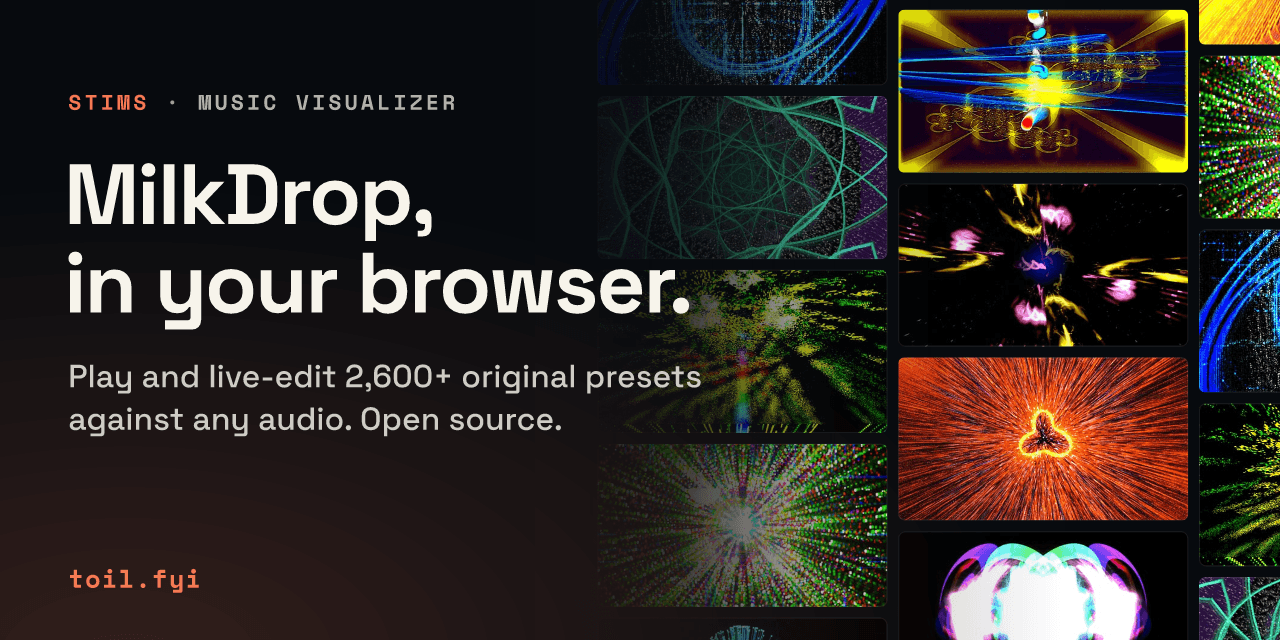
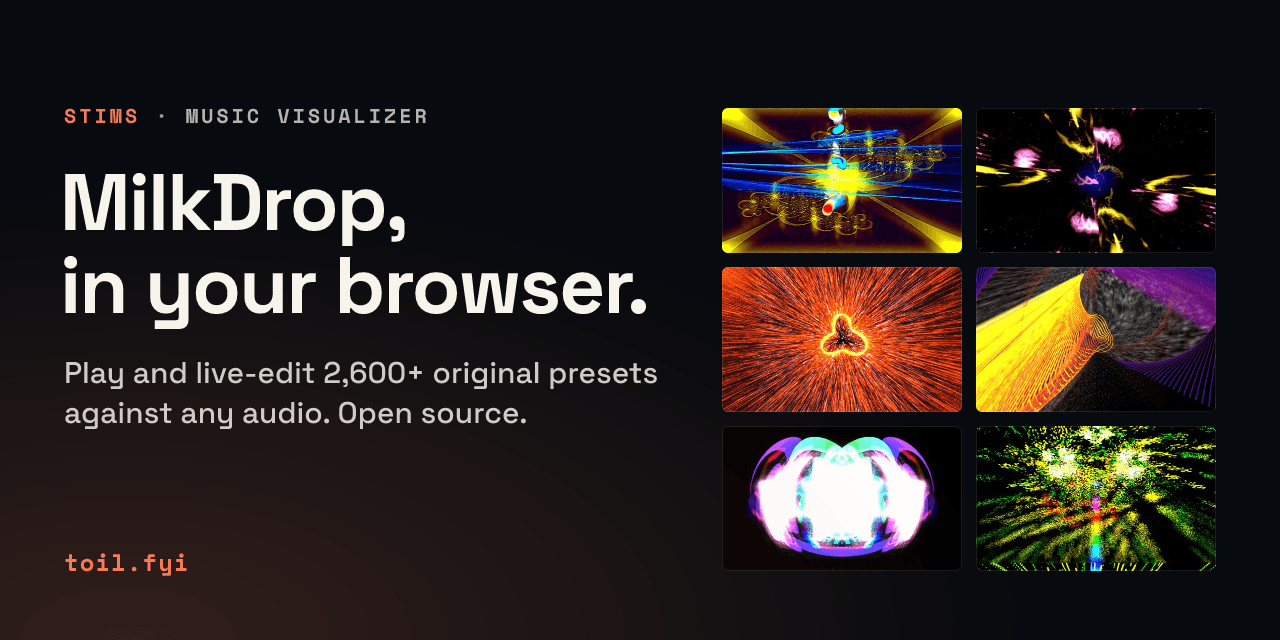
fix(seo): keep the github social preview inside its edges (#1715)
* fix(seo): keep the github social preview inside its edges

The GitHub social preview reframed the 1200x630 og:image card, so its
tile wall ran off the top, right and bottom. Unfurlers that crop a 2:1
image showed the cut tiles as a broken crop.

buildOgSvg now takes an optional canvas (size, tiles, whether to fade
the ground over them). The site cards keep the default and render
byte-identical; the social preview is drawn natively at 1280x640 with a
2x3 grid of rounded tiles held 64px from the sides, aligned with the
eyebrow and footer, and no tile under the words.

Claude-Session: https://claude.ai/code/session_01DcfMrwoJebtJQPvPudgUjz

* chore(deps): wait seven days before dependabot proposes a version

The weekly maintenance steward merges green minor and patch updates on
its own, so a version should be public long enough for a compromised
release to be found and pulled first. Security updates are not delayed.

Claude-Session: https://claude.ai/code/session_01DcfMrwoJebtJQPvPudgUjz

---------

diff --git a/scripts/generate-seo.ts b/scripts/generate-seo.ts
@@ -231,7 +231,14 @@ const TILE_COLUMNS: OgColumn[] = [
   },
 ];
 
-type OgTile = { x: number; y: number; frame: string };
+type OgTile = {
+  x: number;
+  y: number;
+  frame: string;
+  /** Tile size; the wall's 16:9 TILE_W x TILE_H when left out. */
+  width?: number;
+  height?: number;
+};
 
 export function layoutOgTiles(columns: OgColumn[] = TILE_COLUMNS): OgTile[] {
   const tiles: OgTile[] = [];
@@ -261,14 +268,80 @@ function buildOgTileWall(tiles: OgTile[], frameHref: OgFrameHref) {
   return tiles
     .map(
       (
-        { x, y, frame },
+        { x, y, frame, width = TILE_W, height = TILE_H },
         index,
-      ) => `<clipPath id="tile-${index}"><rect x="${x}" y="${y}" width="${TILE_W}" height="${TILE_H}" rx="6" /></clipPath>
-    <image href="${escapeXml(frameHref(frame))}" x="${x}" y="${y}" width="${TILE_W}" height="${TILE_H}" preserveAspectRatio="xMidYMid slice" clip-path="url(#tile-${index})" />
-    <rect x="${x + 0.5}" y="${y + 0.5}" width="${TILE_W - 1}" height="${TILE_H - 1}" rx="6" fill="none" stroke="rgba(255,255,255,0.1)" />`,
+      ) => `<clipPath id="tile-${index}"><rect x="${x}" y="${y}" width="${width}" height="${height}" rx="6" /></clipPath>
+    <image href="${escapeXml(frameHref(frame))}" x="${x}" y="${y}" width="${width}" height="${height}" preserveAspectRatio="xMidYMid slice" clip-path="url(#tile-${index})" />
+    <rect x="${x + 0.5}" y="${y + 0.5}" width="${width - 1}" height="${height - 1}" rx="6" fill="none" stroke="rgba(255,255,255,0.1)" />`,
     )
     .join('\n    ');
 }
+
+/**
+ * The canvas a card is drawn on and the tiles on its right. The site's
+ * og:image cards are 1200x630 with the wall bleeding off the edge, faded
+ * under the words.
+ */
+export type OgCanvas = {
+  width: number;
+  height: number;
+  tiles: OgTile[];
+  /** Fade the ground over the tiles, for a wall that runs under the words. */
+  fadeTiles: boolean;
+};
+
+const OG_CARD_CANVAS: OgCanvas = {
+  width: ogWidth,
+  height: ogHeight,
+  tiles: layoutOgTiles(),
+  fadeTiles: true,
+};
+
+// GitHub's social preview is 2:1 at 1280x640, and Slack, LinkedIn and
+// iMessage unfurl it cropped, trimming about 30px off each side. A tile cut
+// by the canvas edge reads there as a broken crop, so this card keeps its
+// frames in a grid inside the edges, clear of the words: 64px from the sides,
+// as the text is, and between the eyebrow's cap height and the footer's
+// baseline top to bottom. All six frames differ, so no two neighbours match.
+export const GITHUB_SOCIAL_PREVIEW_WIDTH = 1280;
+export const GITHUB_SOCIAL_PREVIEW_HEIGHT = 640;
+const GITHUB_GRID = {
+  columns: 2,
+  right: GITHUB_SOCIAL_PREVIEW_WIDTH - OG_MARGIN,
+  top: 108,
+  bottom: 571,
+  tileWidth: 240,
+  gap: 14,
+  frames: [
+    FRAME.strangelyDynamic,
+    FRAME.eightySix,
+    FRAME.threeLayers,
+    FRAME.polyevolution,
+    FRAME.glowsticks,
+    FRAME.astral,
+  ],
+};
+
+function layoutGithubSocialPreviewTiles(): OgTile[] {
+  const { columns, right, top, bottom, tileWidth, gap, frames } = GITHUB_GRID;
+  const rows = Math.ceil(frames.length / columns);
+  const tileHeight = Math.round((bottom - top - gap * (rows - 1)) / rows);
+  const left = right - columns * tileWidth - (columns - 1) * gap;
+  return frames.map((frame, index) => ({
+    x: left + (index % columns) * (tileWidth + gap),
+    y: top + Math.floor(index / columns) * (tileHeight + gap),
+    frame,
+    width: tileWidth,
+    height: tileHeight,
+  }));
+}
+
+export const GITHUB_SOCIAL_PREVIEW_CANVAS: OgCanvas = {
+  width: GITHUB_SOCIAL_PREVIEW_WIDTH,
+  height: GITHUB_SOCIAL_PREVIEW_HEIGHT,
+  tiles: layoutGithubSocialPreviewTiles(),
+  fadeTiles: false,
+};
 
 export const buildOgSvg = ({
   headline,
@@ -278,6 +351,7 @@ export const buildOgSvg = ({
   eyebrow,
   ariaLabel,
   frameHref = relativeOgFrameHref,
+  canvas = OG_CARD_CANVAS,
 }: {
   /** One entry per line. Two lines at 84px is the design size. */
   headline: string[];
@@ -288,15 +362,19 @@ export const buildOgSvg = ({
   eyebrow: string;
   ariaLabel: string;
   frameHref?: OgFrameHref;
+  canvas?: OgCanvas;
 }) => {
+  const { width, height } = canvas;
+  // A taller canvas centres the same column of words.
+  const dy = (height - ogHeight) / 2;
   const headlineLeading = Math.round(headlineSize * 1.04);
-  const eyebrowY = 118;
+  const eyebrowY = 118 + dy;
   const firstHeadlineY = eyebrowY + 38 + headlineSize * 0.86;
   const lastHeadlineY =
     firstHeadlineY + (headline.length - 1) * headlineLeading;
   const firstSublineY = lastHeadlineY + 70;
 
-  return `<svg xmlns="http://www.w3.org/2000/svg" width="${ogWidth}" height="${ogHeight}" viewBox="0 0 ${ogWidth} ${ogHeight}" role="img" aria-label="${escapeHtml(ariaLabel)}">
+  return `<svg xmlns="http://www.w3.org/2000/svg" width="${width}" height="${height}" viewBox="0 0 ${width} ${height}" role="img" aria-label="${escapeHtml(ariaLabel)}">
   <defs>
     <linearGradient id="ground-fade" x1="0" y1="0" x2="1" y2="0">
       <stop offset="0" stop-color="${OG_GROUND}" />
@@ -310,12 +388,11 @@ export const buildOgSvg = ({
       <stop offset="1" stop-color="${OG_CORAL}" stop-opacity="0" />
     </radialGradient>
   </defs>
-  <rect width="${ogWidth}" height="${ogHeight}" fill="${OG_GROUND}" />
+  <rect width="${width}" height="${height}" fill="${OG_GROUND}" />
   <g>
-    ${buildOgTileWall(layoutOgTiles(), frameHref)}
+    ${buildOgTileWall(canvas.tiles, frameHref)}
   </g>
-  <rect width="1000" height="${ogHeight}" fill="url(#ground-fade)" />
-  <rect width="${ogWidth}" height="${ogHeight}" fill="url(#warm)" />
+  ${canvas.fadeTiles ? `<rect width="1000" height="${height}" fill="url(#ground-fade)" />\n  ` : ''}<rect width="${width}" height="${height}" fill="url(#warm)" />
 
   <text x="${OG_MARGIN}" y="${eyebrowY}" font-size="20" font-weight="700" font-family="Space Mono, monospace" letter-spacing="3">${
     eyebrowLead
@@ -335,7 +412,7 @@ export const buildOgSvg = ({
     )
     .join('\n  ')}
 
-  <text x="${OG_MARGIN}" y="566" font-size="24" font-weight="700" fill="${OG_CORAL}" font-family="Space Mono, monospace" letter-spacing="1">toil.fyi</text>
+  <text x="${OG_MARGIN}" y="${566 + dy}" font-size="24" font-weight="700" fill="${OG_CORAL}" font-family="Space Mono, monospace" letter-spacing="1">toil.fyi</text>
 </svg>`;
 };
 
@@ -451,18 +528,6 @@ export async function renderOgPng(
     .png({ palette: true, quality: 90, effort: 10, compressionLevel: 9 })
     .toBuffer();
 }
-
-/**
- * GitHub's social preview is 2:1 at 1280x640, not the 1.9:1 of og:image. The
- * same card is re-framed rather than re-laid-out: a 1200x600 window through
- * its middle (y 15-615) keeps the eyebrow and footer and trims only the
- * bleeding tile wall, scaled up to 1280 wide.
- */
-export const toGithubSocialPreviewSvg = (cardSvg: string) =>
-  cardSvg.replace(
-    `width="${ogWidth}" height="${ogHeight}" viewBox="0 0 ${ogWidth} ${ogHeight}"`,
-    'width="1280" height="640" viewBox="0 15 1200 600"',
-  );
 
 /** Presets on offer, floored to the hundred so the card ages gracefully. */
 export const formatPresetCountClaim = (count: number) =>
@@ -1256,11 +1321,13 @@ export async function buildSeoArtifacts(
       {
         relativePath: GENERATED_GITHUB_SOCIAL_PREVIEW_PATH,
         contents: await renderOgPng(
-          toGithubSocialPreviewSvg(
-            buildOgSvg({ ...githubSocialCard, frameHref: inlineFrames }),
-          ),
+          buildOgSvg({
+            ...githubSocialCard,
+            frameHref: inlineFrames,
+            canvas: GITHUB_SOCIAL_PREVIEW_CANVAS,
+          }),
           rootDir,
-          { width: 1280 },
+          { width: GITHUB_SOCIAL_PREVIEW_WIDTH },
         ),
       },
       {

diff --git a/tests/unit/generate-seo.test.ts b/tests/unit/generate-seo.test.ts
@@ -27,6 +27,7 @@ import {
   buildSitemapChunk,
   buildSitemapEntries,
   formatPresetCountClaim,
+  GITHUB_SOCIAL_PREVIEW_CANVAS,
   getSitemapRouteSpecs,
   layoutOgTiles,
   OG_FRAME_DIR,
@@ -159,6 +160,28 @@ describe('generate-seo social cards', () => {
         expect(adjacent).toBe(false);
       }
     }
+  });
+
+  // Unfurlers show this card cropped; a tile cut by the edge reads as broken.
+  test('the GitHub social preview keeps every tile inside its edges', () => {
+    const { width, height, tiles } = GITHUB_SOCIAL_PREVIEW_CANVAS;
+    expect([width, height]).toEqual([1280, 640]);
+    expect(new Set(tiles.map((tile) => tile.frame)).size).toBe(tiles.length);
+    for (const { x, y, width: w = 0, height: h = 0 } of tiles) {
+      expect(x).toBeGreaterThanOrEqual(64);
+      expect(x + w).toBeLessThanOrEqual(width - 64);
+      expect(y).toBeGreaterThanOrEqual(48);
+      expect(y + h).toBeLessThanOrEqual(height - 48);
+    }
+    const svg = buildOgSvg({
+      headline: ['MilkDrop,'],
+      subline: ['Open source.'],
+      eyebrow: 'Music visualizer',
+      ariaLabel: 'MilkDrop',
+      canvas: GITHUB_SOCIAL_PREVIEW_CANVAS,
+    });
+    expect(svg).toContain('viewBox="0 0 1280 640"');
+    expect(svg).not.toContain('ground-fade)');
   });
 
   test('the committed SVG points at the frame files beside it', () => {
